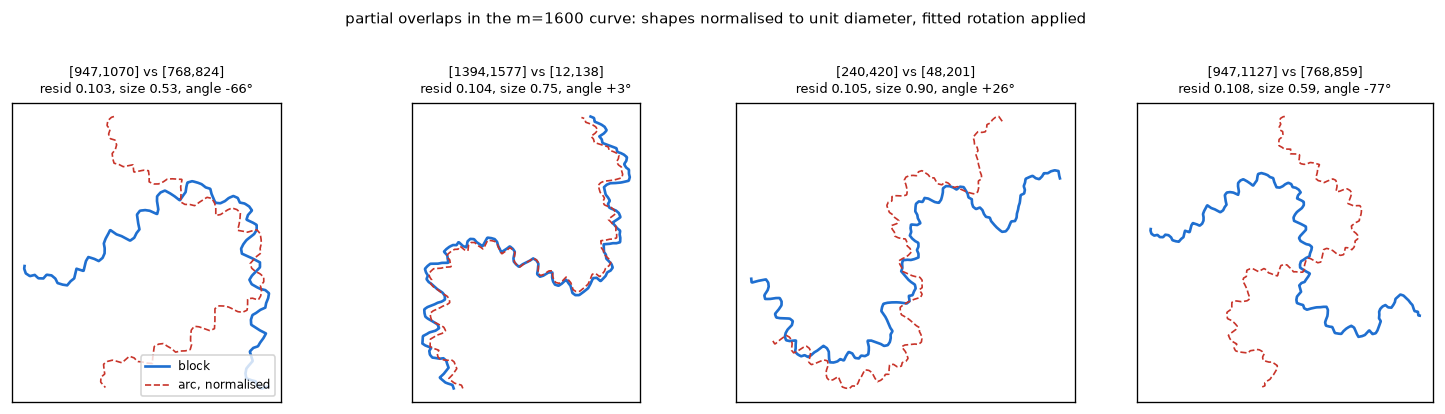
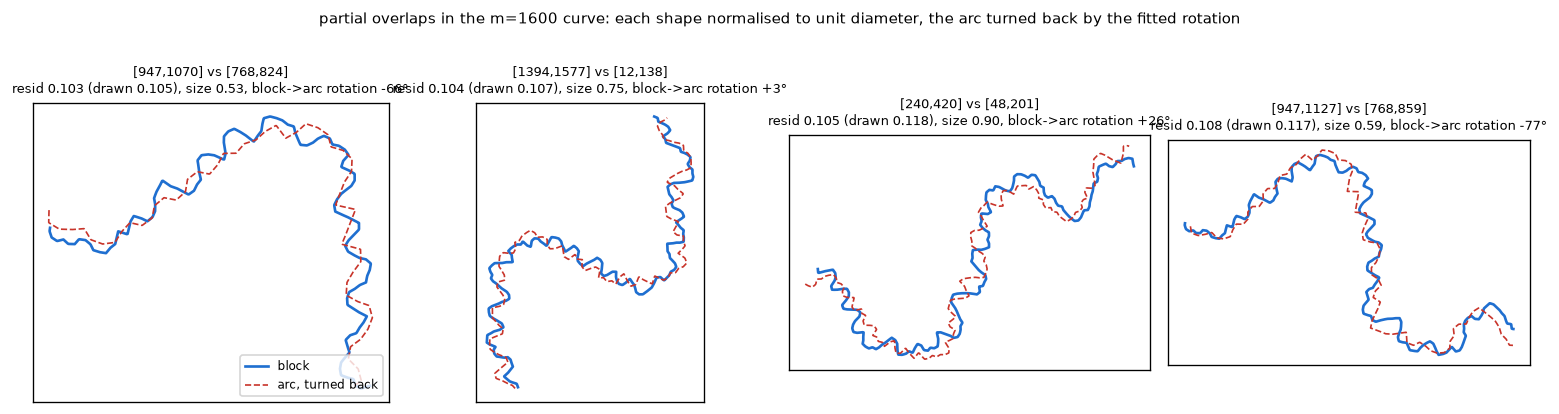
Draw the arc, not the rotated block, in the overlap figure
plot_overlaps.py plotted wc and s*wc, i.e. the block and its own rotation, so
the figure showed a rigid motion and never the arc; the apparent agreement was
an artefact. It now draws the block and the arc turned back by the fitted
rotation, and prints the residual of the two curves actually drawn alongside the
stored one. The table values are unaffected; the angles were re-checked against
an independent raw-coordinate fit and agree to 0.1 degrees.

diff --git a/scripts/plot_overlaps.py b/scripts/plot_overlaps.py
@@ -39,17 +39,23 @@ def main():
         wc, qc = w - w.mean(), q - q.mean()
         dw, dq = np.abs(wc).max(), np.abs(qc).max()
         s = np.vdot(wc / dw, qc / dq) / np.vdot(wc / dw, wc / dw).real
+        # both curves normalised by their own diameter; the arc is then turned
+        # back by the fitted rotation so that the two can be compared directly.
+        # (An earlier version of this figure plotted s*block, i.e. the block
+        # against its own rotation, which of course agreed.)
+        arc = qc / dq / s
+        shown = float(np.abs(arc - wc / dw).max())
         a_.plot(wc.real / dw, wc.imag / dw, "-", color="#1f6fd0", lw=1.6, label="block")
-        a_.plot((s * wc / dw).real, (s * wc / dw).imag, "--", color="#c8342a", lw=1.0,
-                label="arc, normalised")
+        a_.plot(arc.real, arc.imag, "--", color="#c8342a", lw=1.0,
+                label="arc, turned back")
         a_.set_aspect("equal"); a_.set_xticks([]); a_.set_yticks([])
         a_.set_title(f"[{a:.0f},{a + L:.0f}] vs [{c:.0f},{c + K:.0f}]\n"
-                     f"resid {r['residual']:.3f}, size {r['size']:.2f}, "
-                     f"angle {r['argC']:+.0f}°", fontsize=8)
+                     f"resid {r['residual']:.3f} (drawn {shown:.3f}), size {r['size']:.2f}, "
+                     f"block->arc rotation {r['argC']:+.0f}°", fontsize=8)
         if k == 0:
             a_.legend(fontsize=7, loc="lower right")
-    fig.suptitle("partial overlaps in the m=1600 curve: shapes normalised to unit "
-                 "diameter, fitted rotation applied", fontsize=9, y=1.0)
+    fig.suptitle("partial overlaps in the m=1600 curve: each shape normalised to unit "
+                 "diameter, the arc turned back by the fitted rotation", fontsize=9, y=1.0)
     fig.tight_layout()
     out = ROOT / "figures/overlaps-m1600.png"
     fig.savefig(out, dpi=120, facecolor="white", bbox_inches="tight",

diff --git a/results/overlaps.md b/results/overlaps.md
@@ -73,8 +73,12 @@ resid   block            arc              size   angle
 0.111   [ 238, 490]      [  48, 254]      0.88   +31°
 ```
 
-Figure: `figures/overlaps-m1600.png` (shapes normalised, fitted rotation
-applied). Several of these are the same coincidence found at slightly different
+Figure: `figures/overlaps-m1600.png` — each shape normalised to unit diameter
+and the arc turned back by the fitted rotation, so the two curves drawn are the
+block and (a rotation of) the arc itself. An earlier version of this figure
+plotted the block against its own rotation, so the arc's data never appeared and
+the agreement it showed was spurious; the numbers in the tables were unaffected
+and the angles were re-checked independently (they agree to $0.1^\circ$). Several of these are the same coincidence found at slightly different
 bounds: the region around indices $730$–$1200$ is where most of them live.
 
 Note the column `size`: the strongest hits mostly have $K/L\approx0.5$ with
